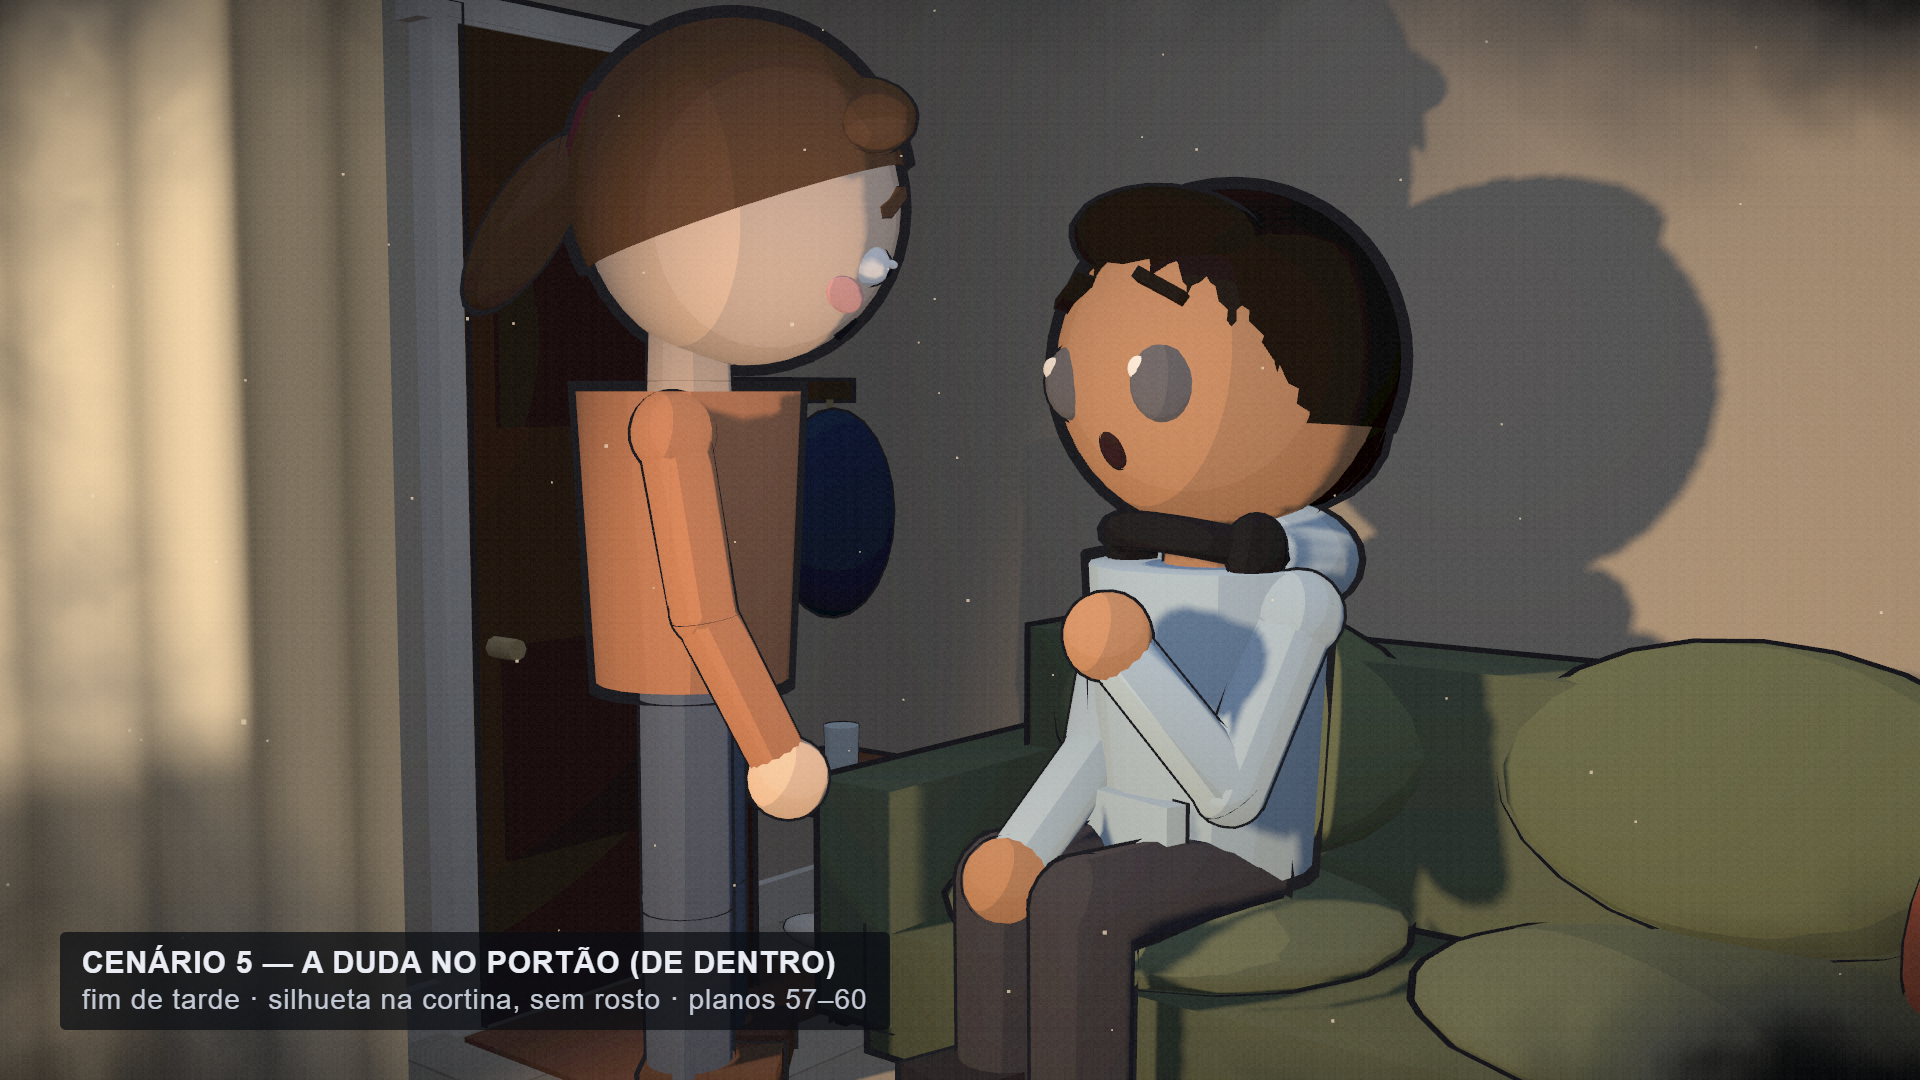
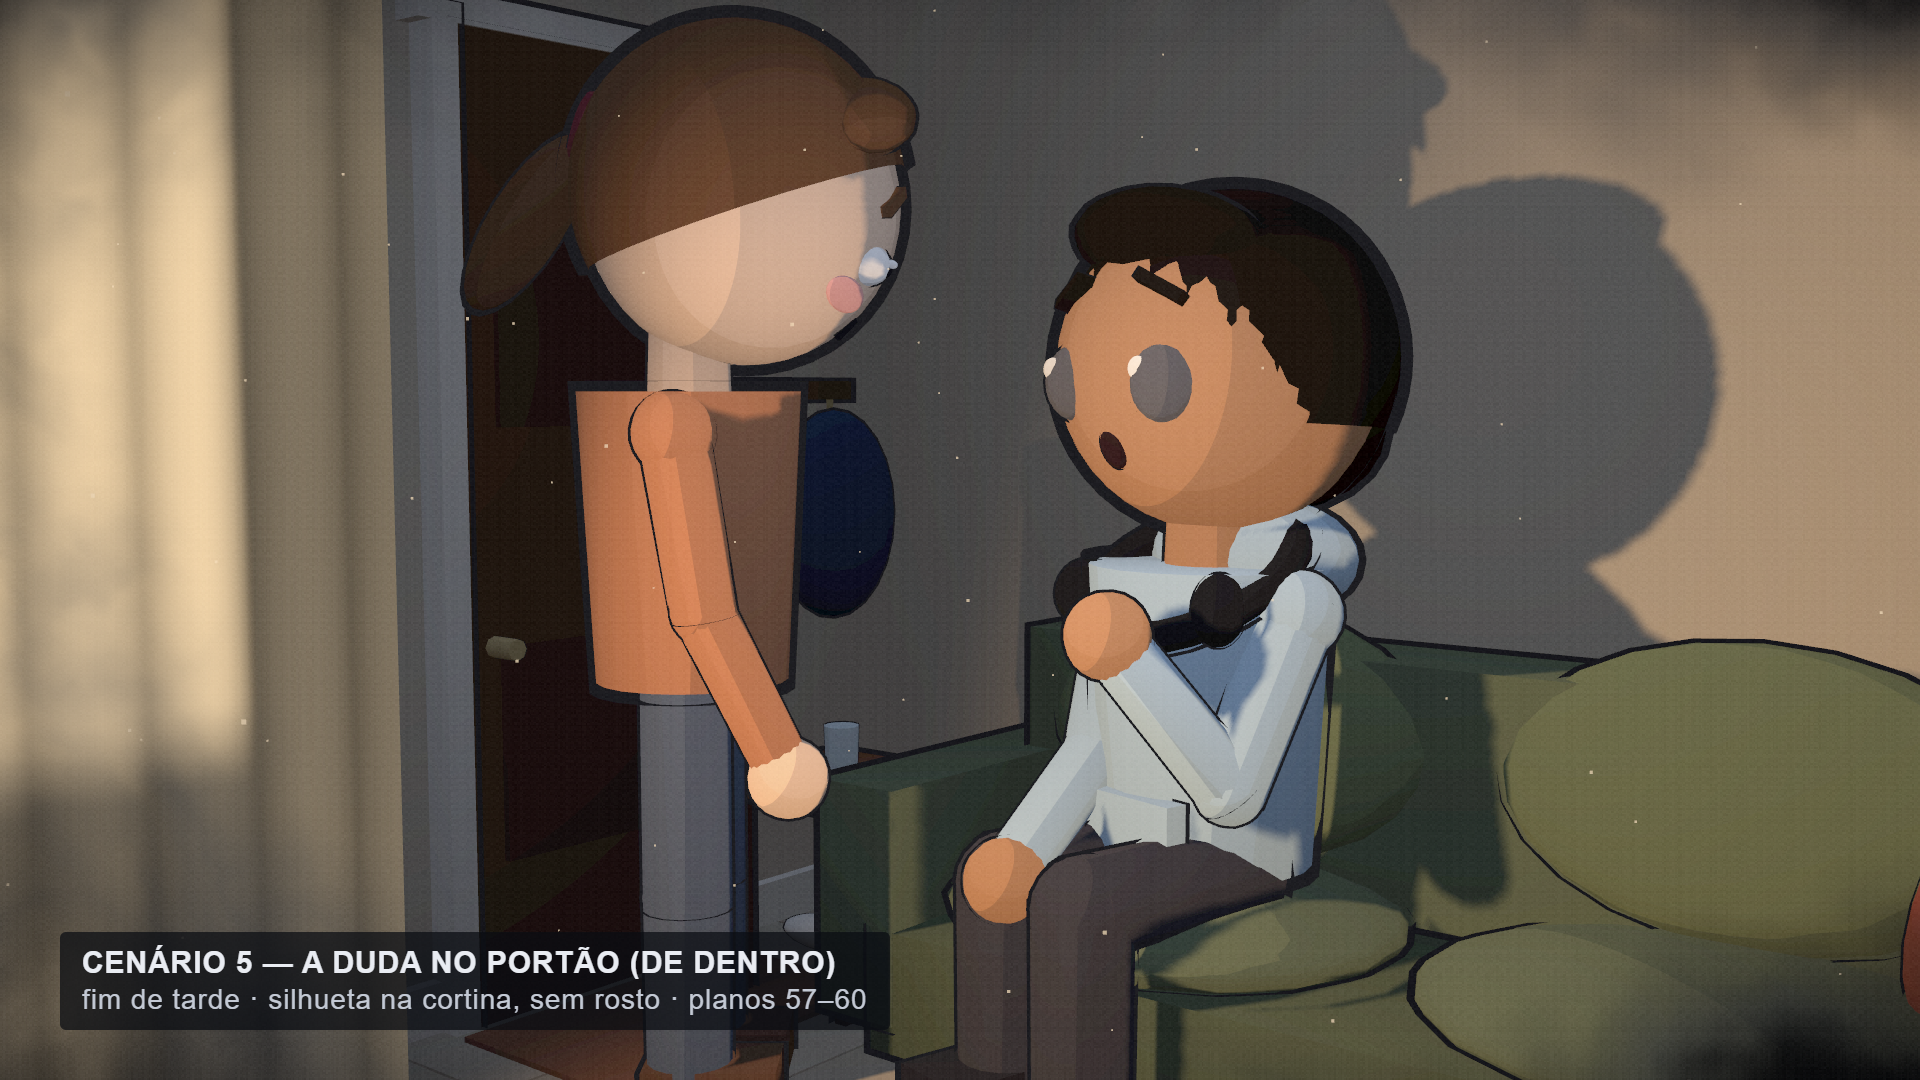
Fone do Gabi mais largo e caído sobre o peito (não aperta o pescoço)

diff --git a/producao/ep1/assets/rig/elenco.js b/producao/ep1/assets/rig/elenco.js
@@ -68,9 +68,10 @@
       add(new THREE.BoxGeometry(0.34, 0.16, 0.06), P.roupa, 0, 1.2, 0.27);
     }
     if (P.fone) { // objeto-assinatura do Gabi: fone no pescoço
-      add(new THREE.TorusGeometry(0.2, 0.045, 10, 24), P.fone, 0, 1.86, 0.03, g, { r: [Math.PI / 2 - 0.25, 0, 0] });
-      add(sphere(0.085, 12, 12), P.fone, -0.21, 1.87, 0.06, g, { s: [0.7, 1, 1] });
-      add(sphere(0.085, 12, 12), P.fone, 0.21, 1.87, 0.06, g, { s: [0.7, 1, 1] });
+      // aro largo e solto, caído para a frente sobre o peito (não aperta o pescoço); conchas na clavícula
+      add(new THREE.TorusGeometry(0.27, 0.04, 10, 28), P.fone, 0, 1.8, 0.06, g, { r: [Math.PI / 2 + 0.55, 0, 0] });
+      add(sphere(0.085, 12, 12), P.fone, -0.23, 1.74, 0.2, g, { s: [0.7, 1, 1], r: [0, -0.4, 0] });
+      add(sphere(0.085, 12, 12), P.fone, 0.23, 1.74, 0.2, g, { s: [0.7, 1, 1], r: [0, 0.4, 0] });
     }
     if (P.lapela) { // blazer: blusa clara em V e duas lapelas
       // V da blusa entre as lapelas; cada lapela com o topo aberto para fora (rot z = -lado)
